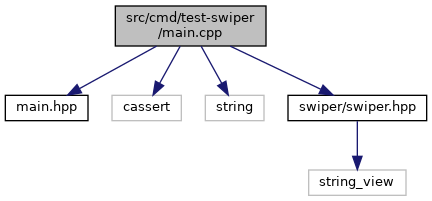
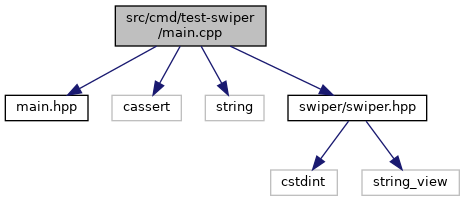
Travis build: 149
Commit: 8b857aac87ef594a7eb203b8334cd1f9820c75ea

diff --git a/swiper_8hpp_source.html b/swiper_8hpp_source.html
@@ -71,46 +71,47 @@ $(function() {
 <div class="contents">
 <a href="swiper_8hpp.html">Go to the documentation of this file.</a><div class="fragment"><div class="line"><a name="l00001"></a><span class="lineno">    1</span>&#160;<span class="preprocessor">#pragma once</span></div>
 <div class="line"><a name="l00002"></a><span class="lineno">    2</span>&#160; </div>
-<div class="line"><a name="l00010"></a><span class="lineno">   10</span>&#160;<span class="preprocessor">#include &lt;string_view&gt;</span></div>
-<div class="line"><a name="l00011"></a><span class="lineno">   11</span>&#160; </div>
-<div class="line"><a name="l00015"></a><span class="lineno">   15</span>&#160;<span class="preprocessor">#if defined(_WIN32)</span></div>
-<div class="line"><a name="l00016"></a><span class="lineno">   16</span>&#160;<span class="preprocessor">#define ALWAYS_INLINE __forceinline</span></div>
-<div class="line"><a name="l00017"></a><span class="lineno">   17</span>&#160;<span class="preprocessor">#define NEVER_INLINE __declspec(noinline)</span></div>
-<div class="line"><a name="l00018"></a><span class="lineno">   18</span>&#160;<span class="preprocessor">#else</span></div>
-<div class="line"><a name="l00019"></a><span class="lineno"><a class="line" href="swiper_8hpp.html#aa1dec568e79152c892dcf63f445cbd7a">   19</a></span>&#160;<span class="preprocessor">#define ALWAYS_INLINE inline __attribute((__always_inline__))</span></div>
-<div class="line"><a name="l00020"></a><span class="lineno"><a class="line" href="swiper_8hpp.html#a5251990c23668b067a282c9c3a8ef84a">   20</a></span>&#160;<span class="preprocessor">#define NEVER_INLINE __attribute__ ((__noinline__))</span></div>
-<div class="line"><a name="l00021"></a><span class="lineno">   21</span>&#160;<span class="preprocessor">#endif</span></div>
-<div class="line"><a name="l00022"></a><span class="lineno">   22</span>&#160; </div>
-<div class="line"><a name="l00023"></a><span class="lineno">   23</span>&#160;<span class="preprocessor">#if defined(_WIN32)</span></div>
-<div class="line"><a name="l00024"></a><span class="lineno">   24</span>&#160;<span class="preprocessor">#define NOP __asm{}</span></div>
-<div class="line"><a name="l00025"></a><span class="lineno">   25</span>&#160;<span class="preprocessor">#else</span></div>
-<div class="line"><a name="l00026"></a><span class="lineno"><a class="line" href="swiper_8hpp.html#a700f88377bf36711b711f69b06c52f5d">   26</a></span>&#160;<span class="preprocessor">#define NOP __asm(&quot;&quot;)</span></div>
-<div class="line"><a name="l00027"></a><span class="lineno">   27</span>&#160;<span class="preprocessor">#endif</span></div>
-<div class="line"><a name="l00028"></a><span class="lineno">   28</span>&#160; </div>
-<div class="line"><a name="l00032"></a><span class="lineno"><a class="line" href="namespaceswiper.html">   32</a></span>&#160;<span class="keyword">namespace </span><a class="code" href="namespaceswiper.html">swiper</a> {</div>
-<div class="line"><a name="l00036"></a><span class="lineno"><a class="line" href="namespaceswiper.html#a0e5a5404a5aaf5ab2bdc034346d402d0">   36</a></span>&#160;    <span class="keyword">const</span> <span class="keywordtype">char</span> <a class="code" href="namespaceswiper.html#a0e5a5404a5aaf5ab2bdc034346d402d0">Xlat</a>[32] = {</div>
-<div class="line"><a name="l00037"></a><span class="lineno">   37</span>&#160;        0x64, 0x73, 0x66, 0x64,</div>
-<div class="line"><a name="l00038"></a><span class="lineno">   38</span>&#160;        0x3b, 0x6b, 0x66, 0x6f,</div>
-<div class="line"><a name="l00039"></a><span class="lineno">   39</span>&#160;        0x41, 0x2c, 0x2e, 0x69,</div>
-<div class="line"><a name="l00040"></a><span class="lineno">   40</span>&#160;        0x79, 0x65, 0x77, 0x72,</div>
-<div class="line"><a name="l00041"></a><span class="lineno">   41</span>&#160;        0x6b, 0x6c, 0x64, 0x4a,</div>
-<div class="line"><a name="l00042"></a><span class="lineno">   42</span>&#160;        0x4b, 0x44, 0x48, 0x53,</div>
-<div class="line"><a name="l00043"></a><span class="lineno">   43</span>&#160;        0x55, 0x42, 0x73, 0x00,</div>
-<div class="line"><a name="l00044"></a><span class="lineno">   44</span>&#160;        0x00, 0x00, 0x00, 0x00</div>
-<div class="line"><a name="l00045"></a><span class="lineno">   45</span>&#160;    };</div>
-<div class="line"><a name="l00046"></a><span class="lineno">   46</span>&#160; </div>
-<div class="line"><a name="l00052"></a><span class="lineno">   52</span>&#160;    <span class="keywordtype">void</span> <a class="code" href="namespaceswiper.html#aebebfcffb1d79f4c6117ab98502454b9">Spin</a>(<span class="keywordtype">int</span> n) noexcept;</div>
-<div class="line"><a name="l00053"></a><span class="lineno">   53</span>&#160; </div>
-<div class="line"><a name="l00064"></a><span class="lineno">   64</span>&#160;    <span class="keywordtype">void</span> <a class="code" href="namespaceswiper.html#a007ec3a3e168bc928b2d85820efa4774">WarmCache</a>(<span class="keywordtype">char</span> *password, <span class="keyword">const</span> std::string_view&amp; hash, <span class="keywordtype">int</span> n) noexcept;</div>
-<div class="line"><a name="l00065"></a><span class="lineno">   65</span>&#160; </div>
-<div class="line"><a name="l00076"></a><span class="lineno">   76</span>&#160;    <span class="keywordtype">void</span> <a class="code" href="namespaceswiper.html#a31bf3c2415b5b36b6fef855352c54c1b">Decrypt</a>(<span class="keywordtype">char</span> *password, <span class="keyword">const</span> std::string_view&amp; hash) noexcept;</div>
-<div class="line"><a name="l00077"></a><span class="lineno">   77</span>&#160;}</div>
+<div class="line"><a name="l00010"></a><span class="lineno">   10</span>&#160;<span class="preprocessor">#include &lt;cstdint&gt;</span></div>
+<div class="line"><a name="l00011"></a><span class="lineno">   11</span>&#160;<span class="preprocessor">#include &lt;string_view&gt;</span></div>
+<div class="line"><a name="l00012"></a><span class="lineno">   12</span>&#160; </div>
+<div class="line"><a name="l00016"></a><span class="lineno">   16</span>&#160;<span class="preprocessor">#if defined(_WIN32)</span></div>
+<div class="line"><a name="l00017"></a><span class="lineno">   17</span>&#160;<span class="preprocessor">#define ALWAYS_INLINE __forceinline</span></div>
+<div class="line"><a name="l00018"></a><span class="lineno">   18</span>&#160;<span class="preprocessor">#define NEVER_INLINE __declspec(noinline)</span></div>
+<div class="line"><a name="l00019"></a><span class="lineno">   19</span>&#160;<span class="preprocessor">#else</span></div>
+<div class="line"><a name="l00020"></a><span class="lineno"><a class="line" href="swiper_8hpp.html#aa1dec568e79152c892dcf63f445cbd7a">   20</a></span>&#160;<span class="preprocessor">#define ALWAYS_INLINE inline __attribute((__always_inline__))</span></div>
+<div class="line"><a name="l00021"></a><span class="lineno"><a class="line" href="swiper_8hpp.html#a5251990c23668b067a282c9c3a8ef84a">   21</a></span>&#160;<span class="preprocessor">#define NEVER_INLINE __attribute__ ((__noinline__))</span></div>
+<div class="line"><a name="l00022"></a><span class="lineno">   22</span>&#160;<span class="preprocessor">#endif</span></div>
+<div class="line"><a name="l00023"></a><span class="lineno">   23</span>&#160; </div>
+<div class="line"><a name="l00024"></a><span class="lineno">   24</span>&#160;<span class="preprocessor">#if defined(_WIN32)</span></div>
+<div class="line"><a name="l00025"></a><span class="lineno">   25</span>&#160;<span class="preprocessor">#define NOP __asm{}</span></div>
+<div class="line"><a name="l00026"></a><span class="lineno">   26</span>&#160;<span class="preprocessor">#else</span></div>
+<div class="line"><a name="l00027"></a><span class="lineno"><a class="line" href="swiper_8hpp.html#a700f88377bf36711b711f69b06c52f5d">   27</a></span>&#160;<span class="preprocessor">#define NOP __asm(&quot;&quot;)</span></div>
+<div class="line"><a name="l00028"></a><span class="lineno">   28</span>&#160;<span class="preprocessor">#endif</span></div>
+<div class="line"><a name="l00029"></a><span class="lineno">   29</span>&#160; </div>
+<div class="line"><a name="l00033"></a><span class="lineno"><a class="line" href="namespaceswiper.html">   33</a></span>&#160;<span class="keyword">namespace </span><a class="code" href="namespaceswiper.html">swiper</a> {</div>
+<div class="line"><a name="l00037"></a><span class="lineno"><a class="line" href="namespaceswiper.html#ad0e41e6b1ecc8896c0c1a93fcdeef007">   37</a></span>&#160;    <span class="keyword">const</span> uint_fast8_t <a class="code" href="namespaceswiper.html#ad0e41e6b1ecc8896c0c1a93fcdeef007">Xlat</a>[32] = {</div>
+<div class="line"><a name="l00038"></a><span class="lineno">   38</span>&#160;        0x64, 0x73, 0x66, 0x64,</div>
+<div class="line"><a name="l00039"></a><span class="lineno">   39</span>&#160;        0x3b, 0x6b, 0x66, 0x6f,</div>
+<div class="line"><a name="l00040"></a><span class="lineno">   40</span>&#160;        0x41, 0x2c, 0x2e, 0x69,</div>
+<div class="line"><a name="l00041"></a><span class="lineno">   41</span>&#160;        0x79, 0x65, 0x77, 0x72,</div>
+<div class="line"><a name="l00042"></a><span class="lineno">   42</span>&#160;        0x6b, 0x6c, 0x64, 0x4a,</div>
+<div class="line"><a name="l00043"></a><span class="lineno">   43</span>&#160;        0x4b, 0x44, 0x48, 0x53,</div>
+<div class="line"><a name="l00044"></a><span class="lineno">   44</span>&#160;        0x55, 0x42, 0x73, 0x00,</div>
+<div class="line"><a name="l00045"></a><span class="lineno">   45</span>&#160;        0x00, 0x00, 0x00, 0x00</div>
+<div class="line"><a name="l00046"></a><span class="lineno">   46</span>&#160;    };</div>
+<div class="line"><a name="l00047"></a><span class="lineno">   47</span>&#160; </div>
+<div class="line"><a name="l00053"></a><span class="lineno">   53</span>&#160;    <span class="keywordtype">void</span> <a class="code" href="namespaceswiper.html#ace393c174ac16d54fa8043e32ee95105">Spin</a>(int_fast32_t n) noexcept;</div>
+<div class="line"><a name="l00054"></a><span class="lineno">   54</span>&#160; </div>
+<div class="line"><a name="l00065"></a><span class="lineno">   65</span>&#160;    <span class="keywordtype">void</span> <a class="code" href="namespaceswiper.html#a7abf19af22ea5c8c76953a2e90620029">WarmCache</a>(<span class="keywordtype">char</span> *password, <span class="keyword">const</span> std::string_view&amp; hash, int_fast32_t n) noexcept;</div>
+<div class="line"><a name="l00066"></a><span class="lineno">   66</span>&#160; </div>
+<div class="line"><a name="l00077"></a><span class="lineno">   77</span>&#160;    <span class="keywordtype">void</span> <a class="code" href="namespaceswiper.html#a31bf3c2415b5b36b6fef855352c54c1b">Decrypt</a>(<span class="keywordtype">char</span> *password, <span class="keyword">const</span> std::string_view&amp; hash) noexcept;</div>
+<div class="line"><a name="l00078"></a><span class="lineno">   78</span>&#160;}</div>
 </div><!-- fragment --></div><!-- contents -->
-<div class="ttc" id="anamespaceswiper_html"><div class="ttname"><a href="namespaceswiper.html">swiper</a></div><div class="ttdoc">swiper manages legacy Cisco IOS^tm type 7 passwords.</div><div class="ttdef"><b>Definition:</b> swiper.hpp:32</div></div>
+<div class="ttc" id="anamespaceswiper_html"><div class="ttname"><a href="namespaceswiper.html">swiper</a></div><div class="ttdoc">swiper manages legacy Cisco IOS^tm type 7 passwords.</div><div class="ttdef"><b>Definition:</b> swiper.hpp:33</div></div>
 <div class="ttc" id="anamespaceswiper_html_a31bf3c2415b5b36b6fef855352c54c1b"><div class="ttname"><a href="namespaceswiper.html#a31bf3c2415b5b36b6fef855352c54c1b">swiper::Decrypt</a></div><div class="ttdeci">void Decrypt(char *password, const std::string_view &amp;hash) noexcept</div><div class="ttdoc">Decrypt reverses Cisco IOS type 7 hashes.</div><div class="ttdef"><b>Definition:</b> swiper.cpp:34</div></div>
-<div class="ttc" id="anamespaceswiper_html_a0e5a5404a5aaf5ab2bdc034346d402d0"><div class="ttname"><a href="namespaceswiper.html#a0e5a5404a5aaf5ab2bdc034346d402d0">swiper::Xlat</a></div><div class="ttdeci">const char Xlat[32]</div><div class="ttdoc">Xlat is a fixed XOR key.</div><div class="ttdef"><b>Definition:</b> swiper.hpp:36</div></div>
-<div class="ttc" id="anamespaceswiper_html_a007ec3a3e168bc928b2d85820efa4774"><div class="ttname"><a href="namespaceswiper.html#a007ec3a3e168bc928b2d85820efa4774">swiper::WarmCache</a></div><div class="ttdeci">void WarmCache(char *password, const std::string_view &amp;hash, int n) noexcept</div><div class="ttdoc">WarmCache accelerates successive Decrypt calls, by prepopulating the system cache.</div><div class="ttdef"><b>Definition:</b> swiper.cpp:28</div></div>
-<div class="ttc" id="anamespaceswiper_html_aebebfcffb1d79f4c6117ab98502454b9"><div class="ttname"><a href="namespaceswiper.html#aebebfcffb1d79f4c6117ab98502454b9">swiper::Spin</a></div><div class="ttdeci">void Spin(int n) noexcept</div><div class="ttdoc">Spin performs n NOP's, useful for reducing benchmark noise.</div><div class="ttdef"><b>Definition:</b> swiper.cpp:22</div></div>
+<div class="ttc" id="anamespaceswiper_html_a7abf19af22ea5c8c76953a2e90620029"><div class="ttname"><a href="namespaceswiper.html#a7abf19af22ea5c8c76953a2e90620029">swiper::WarmCache</a></div><div class="ttdeci">void WarmCache(char *password, const std::string_view &amp;hash, int_fast32_t n) noexcept</div><div class="ttdoc">WarmCache accelerates successive Decrypt calls, by prepopulating the system cache.</div><div class="ttdef"><b>Definition:</b> swiper.cpp:28</div></div>
+<div class="ttc" id="anamespaceswiper_html_ad0e41e6b1ecc8896c0c1a93fcdeef007"><div class="ttname"><a href="namespaceswiper.html#ad0e41e6b1ecc8896c0c1a93fcdeef007">swiper::Xlat</a></div><div class="ttdeci">const uint_fast8_t Xlat[32]</div><div class="ttdoc">Xlat is a fixed XOR key.</div><div class="ttdef"><b>Definition:</b> swiper.hpp:37</div></div>
+<div class="ttc" id="anamespaceswiper_html_ace393c174ac16d54fa8043e32ee95105"><div class="ttname"><a href="namespaceswiper.html#ace393c174ac16d54fa8043e32ee95105">swiper::Spin</a></div><div class="ttdeci">void Spin(int_fast32_t n) noexcept</div><div class="ttdoc">Spin performs n NOP's, useful for reducing benchmark noise.</div><div class="ttdef"><b>Definition:</b> swiper.cpp:22</div></div>
 <!-- start footer part -->
 <hr class="footer"/><address class="footer"><small>
 Generated by &#160;<a href="http://www.doxygen.org/index.html">

diff --git a/namespaceswiper.html b/namespaceswiper.html
@@ -74,21 +74,21 @@ $(function() {
 <table class="memberdecls">
 <tr class="heading"><td colspan="2"><h2 class="groupheader"><a name="func-members"></a>
 Functions</h2></td></tr>
-<tr class="memitem:aebebfcffb1d79f4c6117ab98502454b9"><td class="memItemLeft" align="right" valign="top">void&#160;</td><td class="memItemRight" valign="bottom"><a class="el" href="namespaceswiper.html#aebebfcffb1d79f4c6117ab98502454b9">Spin</a> (int n) noexcept</td></tr>
-<tr class="memdesc:aebebfcffb1d79f4c6117ab98502454b9"><td class="mdescLeft">&#160;</td><td class="mdescRight">Spin performs n NOP's, useful for reducing benchmark noise.  <a href="namespaceswiper.html#aebebfcffb1d79f4c6117ab98502454b9">More...</a><br /></td></tr>
-<tr class="separator:aebebfcffb1d79f4c6117ab98502454b9"><td class="memSeparator" colspan="2">&#160;</td></tr>
-<tr class="memitem:a007ec3a3e168bc928b2d85820efa4774"><td class="memItemLeft" align="right" valign="top">void&#160;</td><td class="memItemRight" valign="bottom"><a class="el" href="namespaceswiper.html#a007ec3a3e168bc928b2d85820efa4774">WarmCache</a> (char *password, const std::string_view &amp;hash, int n) noexcept</td></tr>
-<tr class="memdesc:a007ec3a3e168bc928b2d85820efa4774"><td class="mdescLeft">&#160;</td><td class="mdescRight">WarmCache accelerates successive <a class="el" href="namespaceswiper.html#a31bf3c2415b5b36b6fef855352c54c1b">Decrypt</a> calls, by prepopulating the system cache.  <a href="namespaceswiper.html#a007ec3a3e168bc928b2d85820efa4774">More...</a><br /></td></tr>
-<tr class="separator:a007ec3a3e168bc928b2d85820efa4774"><td class="memSeparator" colspan="2">&#160;</td></tr>
+<tr class="memitem:ace393c174ac16d54fa8043e32ee95105"><td class="memItemLeft" align="right" valign="top">void&#160;</td><td class="memItemRight" valign="bottom"><a class="el" href="namespaceswiper.html#ace393c174ac16d54fa8043e32ee95105">Spin</a> (int_fast32_t n) noexcept</td></tr>
+<tr class="memdesc:ace393c174ac16d54fa8043e32ee95105"><td class="mdescLeft">&#160;</td><td class="mdescRight">Spin performs n NOP's, useful for reducing benchmark noise.  <a href="namespaceswiper.html#ace393c174ac16d54fa8043e32ee95105">More...</a><br /></td></tr>
+<tr class="separator:ace393c174ac16d54fa8043e32ee95105"><td class="memSeparator" colspan="2">&#160;</td></tr>
+<tr class="memitem:a7abf19af22ea5c8c76953a2e90620029"><td class="memItemLeft" align="right" valign="top">void&#160;</td><td class="memItemRight" valign="bottom"><a class="el" href="namespaceswiper.html#a7abf19af22ea5c8c76953a2e90620029">WarmCache</a> (char *password, const std::string_view &amp;hash, int_fast32_t n) noexcept</td></tr>
+<tr class="memdesc:a7abf19af22ea5c8c76953a2e90620029"><td class="mdescLeft">&#160;</td><td class="mdescRight">WarmCache accelerates successive <a class="el" href="namespaceswiper.html#a31bf3c2415b5b36b6fef855352c54c1b">Decrypt</a> calls, by prepopulating the system cache.  <a href="namespaceswiper.html#a7abf19af22ea5c8c76953a2e90620029">More...</a><br /></td></tr>
+<tr class="separator:a7abf19af22ea5c8c76953a2e90620029"><td class="memSeparator" colspan="2">&#160;</td></tr>
 <tr class="memitem:a31bf3c2415b5b36b6fef855352c54c1b"><td class="memItemLeft" align="right" valign="top">void&#160;</td><td class="memItemRight" valign="bottom"><a class="el" href="namespaceswiper.html#a31bf3c2415b5b36b6fef855352c54c1b">Decrypt</a> (char *password, const std::string_view &amp;hash) noexcept</td></tr>
 <tr class="memdesc:a31bf3c2415b5b36b6fef855352c54c1b"><td class="mdescLeft">&#160;</td><td class="mdescRight">Decrypt reverses Cisco IOS type 7 hashes.  <a href="namespaceswiper.html#a31bf3c2415b5b36b6fef855352c54c1b">More...</a><br /></td></tr>
 <tr class="separator:a31bf3c2415b5b36b6fef855352c54c1b"><td class="memSeparator" colspan="2">&#160;</td></tr>
 </table><table class="memberdecls">
 <tr class="heading"><td colspan="2"><h2 class="groupheader"><a name="var-members"></a>
 Variables</h2></td></tr>
-<tr class="memitem:a0e5a5404a5aaf5ab2bdc034346d402d0"><td class="memItemLeft" align="right" valign="top">const char&#160;</td><td class="memItemRight" valign="bottom"><a class="el" href="namespaceswiper.html#a0e5a5404a5aaf5ab2bdc034346d402d0">Xlat</a> [32]</td></tr>
-<tr class="memdesc:a0e5a5404a5aaf5ab2bdc034346d402d0"><td class="mdescLeft">&#160;</td><td class="mdescRight">Xlat is a fixed XOR key.  <a href="namespaceswiper.html#a0e5a5404a5aaf5ab2bdc034346d402d0">More...</a><br /></td></tr>
-<tr class="separator:a0e5a5404a5aaf5ab2bdc034346d402d0"><td class="memSeparator" colspan="2">&#160;</td></tr>
+<tr class="memitem:ad0e41e6b1ecc8896c0c1a93fcdeef007"><td class="memItemLeft" align="right" valign="top">const uint_fast8_t&#160;</td><td class="memItemRight" valign="bottom"><a class="el" href="namespaceswiper.html#ad0e41e6b1ecc8896c0c1a93fcdeef007">Xlat</a> [32]</td></tr>
+<tr class="memdesc:ad0e41e6b1ecc8896c0c1a93fcdeef007"><td class="mdescLeft">&#160;</td><td class="mdescRight">Xlat is a fixed XOR key.  <a href="namespaceswiper.html#ad0e41e6b1ecc8896c0c1a93fcdeef007">More...</a><br /></td></tr>
+<tr class="separator:ad0e41e6b1ecc8896c0c1a93fcdeef007"><td class="memSeparator" colspan="2">&#160;</td></tr>
 </table>
 <a name="details" id="details"></a><h2 class="groupheader">Detailed Description</h2>
 <div class="textblock"><p>swiper manages legacy Cisco IOS^tm type 7 passwords. </p>
@@ -141,8 +141,8 @@ Variables</h2></td></tr>
 
 </div>
 </div>
-<a id="aebebfcffb1d79f4c6117ab98502454b9"></a>
-<h2 class="memtitle"><span class="permalink"><a href="#aebebfcffb1d79f4c6117ab98502454b9">&#9670;&nbsp;</a></span>Spin()</h2>
+<a id="ace393c174ac16d54fa8043e32ee95105"></a>
+<h2 class="memtitle"><span class="permalink"><a href="#ace393c174ac16d54fa8043e32ee95105">&#9670;&nbsp;</a></span>Spin()</h2>
 
 <div class="memitem">
 <div class="memproto">
@@ -153,7 +153,7 @@ Variables</h2></td></tr>
         <tr>
           <td class="memname">void swiper::Spin </td>
           <td>(</td>
-          <td class="paramtype">int&#160;</td>
+          <td class="paramtype">int_fast32_t&#160;</td>
           <td class="paramname"><em>n</em></td><td>)</td>
           <td></td>
         </tr>
@@ -175,8 +175,8 @@ Variables</h2></td></tr>
 
 </div>
 </div>
-<a id="a007ec3a3e168bc928b2d85820efa4774"></a>
-<h2 class="memtitle"><span class="permalink"><a href="#a007ec3a3e168bc928b2d85820efa4774">&#9670;&nbsp;</a></span>WarmCache()</h2>
+<a id="a7abf19af22ea5c8c76953a2e90620029"></a>
+<h2 class="memtitle"><span class="permalink"><a href="#a7abf19af22ea5c8c76953a2e90620029">&#9670;&nbsp;</a></span>WarmCache()</h2>
 
 <div class="memitem">
 <div class="memproto">
@@ -199,7 +199,7 @@ Variables</h2></td></tr>
         <tr>
           <td class="paramkey"></td>
           <td></td>
-          <td class="paramtype">int&#160;</td>
+          <td class="paramtype">int_fast32_t&#160;</td>
           <td class="paramname"><em>n</em>&#160;</td>
         </tr>
         <tr>
@@ -229,14 +229,14 @@ Variables</h2></td></tr>
 </div>
 </div>
 <h2 class="groupheader">Variable Documentation</h2>
-<a id="a0e5a5404a5aaf5ab2bdc034346d402d0"></a>
-<h2 class="memtitle"><span class="permalink"><a href="#a0e5a5404a5aaf5ab2bdc034346d402d0">&#9670;&nbsp;</a></span>Xlat</h2>
+<a id="ad0e41e6b1ecc8896c0c1a93fcdeef007"></a>
+<h2 class="memtitle"><span class="permalink"><a href="#ad0e41e6b1ecc8896c0c1a93fcdeef007">&#9670;&nbsp;</a></span>Xlat</h2>
 
 <div class="memitem">
 <div class="memproto">
       <table class="memname">
         <tr>
-          <td class="memname">const char swiper::Xlat[32]</td>
+          <td class="memname">const uint_fast8_t swiper::Xlat[32]</td>
         </tr>
       </table>
 </div><div class="memdoc">

diff --git a/swiper_8hpp.html b/swiper_8hpp.html
@@ -74,14 +74,16 @@ $(function() {
 <div class="title">swiper.hpp File Reference</div>  </div>
 </div><!--header-->
 <div class="contents">
-<div class="textblock"><code>#include &lt;string_view&gt;</code><br />
+<div class="textblock"><code>#include &lt;cstdint&gt;</code><br />
+<code>#include &lt;string_view&gt;</code><br />
 </div><div class="textblock"><div class="dynheader">
 Include dependency graph for swiper.hpp:</div>
 <div class="dyncontent">
 <div class="center"><img src="swiper_8hpp__incl.png" border="0" usemap="#include_2swiper_2swiper_8hpp" alt=""/></div>
 <map name="include_2swiper_2swiper_8hpp" id="include_2swiper_2swiper_8hpp">
 <area shape="rect" title=" " alt="" coords="5,5,196,32"/>
-<area shape="rect" title=" " alt="" coords="52,80,149,107"/>
+<area shape="rect" title=" " alt="" coords="14,80,81,107"/>
+<area shape="rect" title=" " alt="" coords="105,80,203,107"/>
 </map>
 </div>
 </div><div class="textblock"><div class="dynheader">
@@ -114,21 +116,21 @@ Macros</h2></td></tr>
 </table><table class="memberdecls">
 <tr class="heading"><td colspan="2"><h2 class="groupheader"><a name="func-members"></a>
 Functions</h2></td></tr>
-<tr class="memitem:aebebfcffb1d79f4c6117ab98502454b9"><td class="memItemLeft" align="right" valign="top">void&#160;</td><td class="memItemRight" valign="bottom"><a class="el" href="namespaceswiper.html#aebebfcffb1d79f4c6117ab98502454b9">swiper::Spin</a> (int n) noexcept</td></tr>
-<tr class="memdesc:aebebfcffb1d79f4c6117ab98502454b9"><td class="mdescLeft">&#160;</td><td class="mdescRight">Spin performs n NOP's, useful for reducing benchmark noise.  <a href="namespaceswiper.html#aebebfcffb1d79f4c6117ab98502454b9">More...</a><br /></td></tr>
-<tr class="separator:aebebfcffb1d79f4c6117ab98502454b9"><td class="memSeparator" colspan="2">&#160;</td></tr>
-<tr class="memitem:a007ec3a3e168bc928b2d85820efa4774"><td class="memItemLeft" align="right" valign="top">void&#160;</td><td class="memItemRight" valign="bottom"><a class="el" href="namespaceswiper.html#a007ec3a3e168bc928b2d85820efa4774">swiper::WarmCache</a> (char *password, const std::string_view &amp;hash, int n) noexcept</td></tr>
-<tr class="memdesc:a007ec3a3e168bc928b2d85820efa4774"><td class="mdescLeft">&#160;</td><td class="mdescRight">WarmCache accelerates successive <a class="el" href="namespaceswiper.html#a31bf3c2415b5b36b6fef855352c54c1b">Decrypt</a> calls, by prepopulating the system cache.  <a href="namespaceswiper.html#a007ec3a3e168bc928b2d85820efa4774">More...</a><br /></td></tr>
-<tr class="separator:a007ec3a3e168bc928b2d85820efa4774"><td class="memSeparator" colspan="2">&#160;</td></tr>
+<tr class="memitem:ace393c174ac16d54fa8043e32ee95105"><td class="memItemLeft" align="right" valign="top">void&#160;</td><td class="memItemRight" valign="bottom"><a class="el" href="namespaceswiper.html#ace393c174ac16d54fa8043e32ee95105">swiper::Spin</a> (int_fast32_t n) noexcept</td></tr>
+<tr class="memdesc:ace393c174ac16d54fa8043e32ee95105"><td class="mdescLeft">&#160;</td><td class="mdescRight">Spin performs n NOP's, useful for reducing benchmark noise.  <a href="namespaceswiper.html#ace393c174ac16d54fa8043e32ee95105">More...</a><br /></td></tr>
+<tr class="separator:ace393c174ac16d54fa8043e32ee95105"><td class="memSeparator" colspan="2">&#160;</td></tr>
+<tr class="memitem:a7abf19af22ea5c8c76953a2e90620029"><td class="memItemLeft" align="right" valign="top">void&#160;</td><td class="memItemRight" valign="bottom"><a class="el" href="namespaceswiper.html#a7abf19af22ea5c8c76953a2e90620029">swiper::WarmCache</a> (char *password, const std::string_view &amp;hash, int_fast32_t n) noexcept</td></tr>
+<tr class="memdesc:a7abf19af22ea5c8c76953a2e90620029"><td class="mdescLeft">&#160;</td><td class="mdescRight">WarmCache accelerates successive <a class="el" href="namespaceswiper.html#a31bf3c2415b5b36b6fef855352c54c1b">Decrypt</a> calls, by prepopulating the system cache.  <a href="namespaceswiper.html#a7abf19af22ea5c8c76953a2e90620029">More...</a><br /></td></tr>
+<tr class="separator:a7abf19af22ea5c8c76953a2e90620029"><td class="memSeparator" colspan="2">&#160;</td></tr>
 <tr class="memitem:a31bf3c2415b5b36b6fef855352c54c1b"><td class="memItemLeft" align="right" valign="top">void&#160;</td><td class="memItemRight" valign="bottom"><a class="el" href="namespaceswiper.html#a31bf3c2415b5b36b6fef855352c54c1b">swiper::Decrypt</a> (char *password, const std::string_view &amp;hash) noexcept</td></tr>
 <tr class="memdesc:a31bf3c2415b5b36b6fef855352c54c1b"><td class="mdescLeft">&#160;</td><td class="mdescRight">Decrypt reverses Cisco IOS type 7 hashes.  <a href="namespaceswiper.html#a31bf3c2415b5b36b6fef855352c54c1b">More...</a><br /></td></tr>
 <tr class="separator:a31bf3c2415b5b36b6fef855352c54c1b"><td class="memSeparator" colspan="2">&#160;</td></tr>
 </table><table class="memberdecls">
 <tr class="heading"><td colspan="2"><h2 class="groupheader"><a name="var-members"></a>
 Variables</h2></td></tr>
-<tr class="memitem:a0e5a5404a5aaf5ab2bdc034346d402d0"><td class="memItemLeft" align="right" valign="top">const char&#160;</td><td class="memItemRight" valign="bottom"><a class="el" href="namespaceswiper.html#a0e5a5404a5aaf5ab2bdc034346d402d0">swiper::Xlat</a> [32]</td></tr>
-<tr class="memdesc:a0e5a5404a5aaf5ab2bdc034346d402d0"><td class="mdescLeft">&#160;</td><td class="mdescRight">Xlat is a fixed XOR key.  <a href="namespaceswiper.html#a0e5a5404a5aaf5ab2bdc034346d402d0">More...</a><br /></td></tr>
-<tr class="separator:a0e5a5404a5aaf5ab2bdc034346d402d0"><td class="memSeparator" colspan="2">&#160;</td></tr>
+<tr class="memitem:ad0e41e6b1ecc8896c0c1a93fcdeef007"><td class="memItemLeft" align="right" valign="top">const uint_fast8_t&#160;</td><td class="memItemRight" valign="bottom"><a class="el" href="namespaceswiper.html#ad0e41e6b1ecc8896c0c1a93fcdeef007">swiper::Xlat</a> [32]</td></tr>
+<tr class="memdesc:ad0e41e6b1ecc8896c0c1a93fcdeef007"><td class="mdescLeft">&#160;</td><td class="mdescRight">Xlat is a fixed XOR key.  <a href="namespaceswiper.html#ad0e41e6b1ecc8896c0c1a93fcdeef007">More...</a><br /></td></tr>
+<tr class="separator:ad0e41e6b1ecc8896c0c1a93fcdeef007"><td class="memSeparator" colspan="2">&#160;</td></tr>
 </table>
 <h2 class="groupheader">Macro Definition Documentation</h2>
 <a id="aa1dec568e79152c892dcf63f445cbd7a"></a>

diff --git a/swiper_8cpp.html b/swiper_8cpp.html
@@ -78,9 +78,10 @@ Include dependency graph for swiper.cpp:</div>
 <div class="dyncontent">
 <div class="center"><img src="swiper_8cpp__incl.png" border="0" usemap="#src_2swiper_8cpp" alt=""/></div>
 <map name="src_2swiper_8cpp" id="src_2swiper_8cpp">
-<area shape="rect" title=" " alt="" coords="17,5,132,32"/>
-<area shape="rect" href="swiper_8hpp.html" title=" " alt="" coords="5,80,144,107"/>
-<area shape="rect" title=" " alt="" coords="26,155,123,181"/>
+<area shape="rect" title=" " alt="" coords="35,5,149,32"/>
+<area shape="rect" href="swiper_8hpp.html" title=" " alt="" coords="23,80,161,107"/>
+<area shape="rect" title=" " alt="" coords="5,155,72,181"/>
+<area shape="rect" title=" " alt="" coords="97,155,194,181"/>
 </map>
 </div>
 </div><table class="memberdecls">
@@ -92,12 +93,12 @@ Namespaces</h2></td></tr>
 </table><table class="memberdecls">
 <tr class="heading"><td colspan="2"><h2 class="groupheader"><a name="func-members"></a>
 Functions</h2></td></tr>
-<tr class="memitem:aebebfcffb1d79f4c6117ab98502454b9"><td class="memItemLeft" align="right" valign="top">void&#160;</td><td class="memItemRight" valign="bottom"><a class="el" href="namespaceswiper.html#aebebfcffb1d79f4c6117ab98502454b9">swiper::Spin</a> (int n) noexcept</td></tr>
-<tr class="memdesc:aebebfcffb1d79f4c6117ab98502454b9"><td class="mdescLeft">&#160;</td><td class="mdescRight">Spin performs n NOP's, useful for reducing benchmark noise.  <a href="namespaceswiper.html#aebebfcffb1d79f4c6117ab98502454b9">More...</a><br /></td></tr>
-<tr class="separator:aebebfcffb1d79f4c6117ab98502454b9"><td class="memSeparator" colspan="2">&#160;</td></tr>
-<tr class="memitem:a007ec3a3e168bc928b2d85820efa4774"><td class="memItemLeft" align="right" valign="top">void&#160;</td><td class="memItemRight" valign="bottom"><a class="el" href="namespaceswiper.html#a007ec3a3e168bc928b2d85820efa4774">swiper::WarmCache</a> (char *password, const std::string_view &amp;hash, int n) noexcept</td></tr>
-<tr class="memdesc:a007ec3a3e168bc928b2d85820efa4774"><td class="mdescLeft">&#160;</td><td class="mdescRight">WarmCache accelerates successive <a class="el" href="namespaceswiper.html#a31bf3c2415b5b36b6fef855352c54c1b">Decrypt</a> calls, by prepopulating the system cache.  <a href="namespaceswiper.html#a007ec3a3e168bc928b2d85820efa4774">More...</a><br /></td></tr>
-<tr class="separator:a007ec3a3e168bc928b2d85820efa4774"><td class="memSeparator" colspan="2">&#160;</td></tr>
+<tr class="memitem:ace393c174ac16d54fa8043e32ee95105"><td class="memItemLeft" align="right" valign="top">void&#160;</td><td class="memItemRight" valign="bottom"><a class="el" href="namespaceswiper.html#ace393c174ac16d54fa8043e32ee95105">swiper::Spin</a> (int_fast32_t n) noexcept</td></tr>
+<tr class="memdesc:ace393c174ac16d54fa8043e32ee95105"><td class="mdescLeft">&#160;</td><td class="mdescRight">Spin performs n NOP's, useful for reducing benchmark noise.  <a href="namespaceswiper.html#ace393c174ac16d54fa8043e32ee95105">More...</a><br /></td></tr>
+<tr class="separator:ace393c174ac16d54fa8043e32ee95105"><td class="memSeparator" colspan="2">&#160;</td></tr>
+<tr class="memitem:a7abf19af22ea5c8c76953a2e90620029"><td class="memItemLeft" align="right" valign="top">void&#160;</td><td class="memItemRight" valign="bottom"><a class="el" href="namespaceswiper.html#a7abf19af22ea5c8c76953a2e90620029">swiper::WarmCache</a> (char *password, const std::string_view &amp;hash, int_fast32_t n) noexcept</td></tr>
+<tr class="memdesc:a7abf19af22ea5c8c76953a2e90620029"><td class="mdescLeft">&#160;</td><td class="mdescRight">WarmCache accelerates successive <a class="el" href="namespaceswiper.html#a31bf3c2415b5b36b6fef855352c54c1b">Decrypt</a> calls, by prepopulating the system cache.  <a href="namespaceswiper.html#a7abf19af22ea5c8c76953a2e90620029">More...</a><br /></td></tr>
+<tr class="separator:a7abf19af22ea5c8c76953a2e90620029"><td class="memSeparator" colspan="2">&#160;</td></tr>
 <tr class="memitem:a31bf3c2415b5b36b6fef855352c54c1b"><td class="memItemLeft" align="right" valign="top">void&#160;</td><td class="memItemRight" valign="bottom"><a class="el" href="namespaceswiper.html#a31bf3c2415b5b36b6fef855352c54c1b">swiper::Decrypt</a> (char *password, const std::string_view &amp;hash) noexcept</td></tr>
 <tr class="memdesc:a31bf3c2415b5b36b6fef855352c54c1b"><td class="mdescLeft">&#160;</td><td class="mdescRight">Decrypt reverses Cisco IOS type 7 hashes.  <a href="namespaceswiper.html#a31bf3c2415b5b36b6fef855352c54c1b">More...</a><br /></td></tr>
 <tr class="separator:a31bf3c2415b5b36b6fef855352c54c1b"><td class="memSeparator" colspan="2">&#160;</td></tr>

diff --git a/namespacemembers.html b/namespacemembers.html
@@ -66,13 +66,13 @@ $(function() {
 : <a class="el" href="namespaceswiper.html#a31bf3c2415b5b36b6fef855352c54c1b">swiper</a>
 </li>
 <li>Spin()
-: <a class="el" href="namespaceswiper.html#aebebfcffb1d79f4c6117ab98502454b9">swiper</a>
+: <a class="el" href="namespaceswiper.html#ace393c174ac16d54fa8043e32ee95105">swiper</a>
 </li>
 <li>WarmCache()
-: <a class="el" href="namespaceswiper.html#a007ec3a3e168bc928b2d85820efa4774">swiper</a>
+: <a class="el" href="namespaceswiper.html#a7abf19af22ea5c8c76953a2e90620029">swiper</a>
 </li>
 <li>Xlat
-: <a class="el" href="namespaceswiper.html#a0e5a5404a5aaf5ab2bdc034346d402d0">swiper</a>
+: <a class="el" href="namespaceswiper.html#ad0e41e6b1ecc8896c0c1a93fcdeef007">swiper</a>
 </li>
 </ul>
 </div><!-- contents -->

diff --git a/namespacemembers_func.html b/namespacemembers_func.html
@@ -66,10 +66,10 @@ $(function() {
 : <a class="el" href="namespaceswiper.html#a31bf3c2415b5b36b6fef855352c54c1b">swiper</a>
 </li>
 <li>Spin()
-: <a class="el" href="namespaceswiper.html#aebebfcffb1d79f4c6117ab98502454b9">swiper</a>
+: <a class="el" href="namespaceswiper.html#ace393c174ac16d54fa8043e32ee95105">swiper</a>
 </li>
 <li>WarmCache()
-: <a class="el" href="namespaceswiper.html#a007ec3a3e168bc928b2d85820efa4774">swiper</a>
+: <a class="el" href="namespaceswiper.html#a7abf19af22ea5c8c76953a2e90620029">swiper</a>
 </li>
 </ul>
 </div><!-- contents -->

diff --git a/main_8cpp.html b/main_8cpp.html
@@ -85,7 +85,8 @@ Include dependency graph for main.cpp:</div>
 <area shape="rect" title=" " alt="" coords="112,95,181,121"/>
 <area shape="rect" title=" " alt="" coords="205,95,264,121"/>
 <area shape="rect" href="swiper_8hpp.html" title=" " alt="" coords="288,95,427,121"/>
-<area shape="rect" title=" " alt="" coords="309,169,406,196"/>
+<area shape="rect" title=" " alt="" coords="271,169,337,196"/>
+<area shape="rect" title=" " alt="" coords="362,169,459,196"/>
 </map>
 </div>
 </div><table class="memberdecls">

diff --git a/search/all_4.js b/search/all_4.js
@@ -1,6 +1,6 @@
 var searchData=
 [
-  ['spin_7',['Spin',['../namespaceswiper.html#aebebfcffb1d79f4c6117ab98502454b9',1,'swiper']]],
+  ['spin_7',['Spin',['../namespaceswiper.html#ace393c174ac16d54fa8043e32ee95105',1,'swiper']]],
   ['swiper_8',['swiper',['../namespaceswiper.html',1,'']]],
   ['swiper_2ecpp_9',['swiper.cpp',['../swiper_8cpp.html',1,'']]],
   ['swiper_2ehpp_10',['swiper.hpp',['../swiper_8hpp.html',1,'']]]

diff --git a/namespacemembers_vars.html b/namespacemembers_vars.html
@@ -63,7 +63,7 @@ $(function() {
 <div class="contents">
 &#160;<ul>
 <li>Xlat
-: <a class="el" href="namespaceswiper.html#a0e5a5404a5aaf5ab2bdc034346d402d0">swiper</a>
+: <a class="el" href="namespaceswiper.html#ad0e41e6b1ecc8896c0c1a93fcdeef007">swiper</a>
 </li>
 </ul>
 </div><!-- contents -->

diff --git a/search/all_5.js b/search/all_5.js
@@ -1,4 +1,4 @@
 var searchData=
 [
-  ['warmcache_11',['WarmCache',['../namespaceswiper.html#a007ec3a3e168bc928b2d85820efa4774',1,'swiper']]]
+  ['warmcache_11',['WarmCache',['../namespaceswiper.html#a7abf19af22ea5c8c76953a2e90620029',1,'swiper']]]
 ];

diff --git a/search/functions_3.js b/search/functions_3.js
@@ -1,4 +1,4 @@
 var searchData=
 [
-  ['warmcache_21',['WarmCache',['../namespaceswiper.html#a007ec3a3e168bc928b2d85820efa4774',1,'swiper']]]
+  ['warmcache_21',['WarmCache',['../namespaceswiper.html#a7abf19af22ea5c8c76953a2e90620029',1,'swiper']]]
 ];

diff --git a/search/all_6.js b/search/all_6.js
@@ -1,4 +1,4 @@
 var searchData=
 [
-  ['xlat_12',['Xlat',['../namespaceswiper.html#a0e5a5404a5aaf5ab2bdc034346d402d0',1,'swiper']]]
+  ['xlat_12',['Xlat',['../namespaceswiper.html#ad0e41e6b1ecc8896c0c1a93fcdeef007',1,'swiper']]]
 ];
